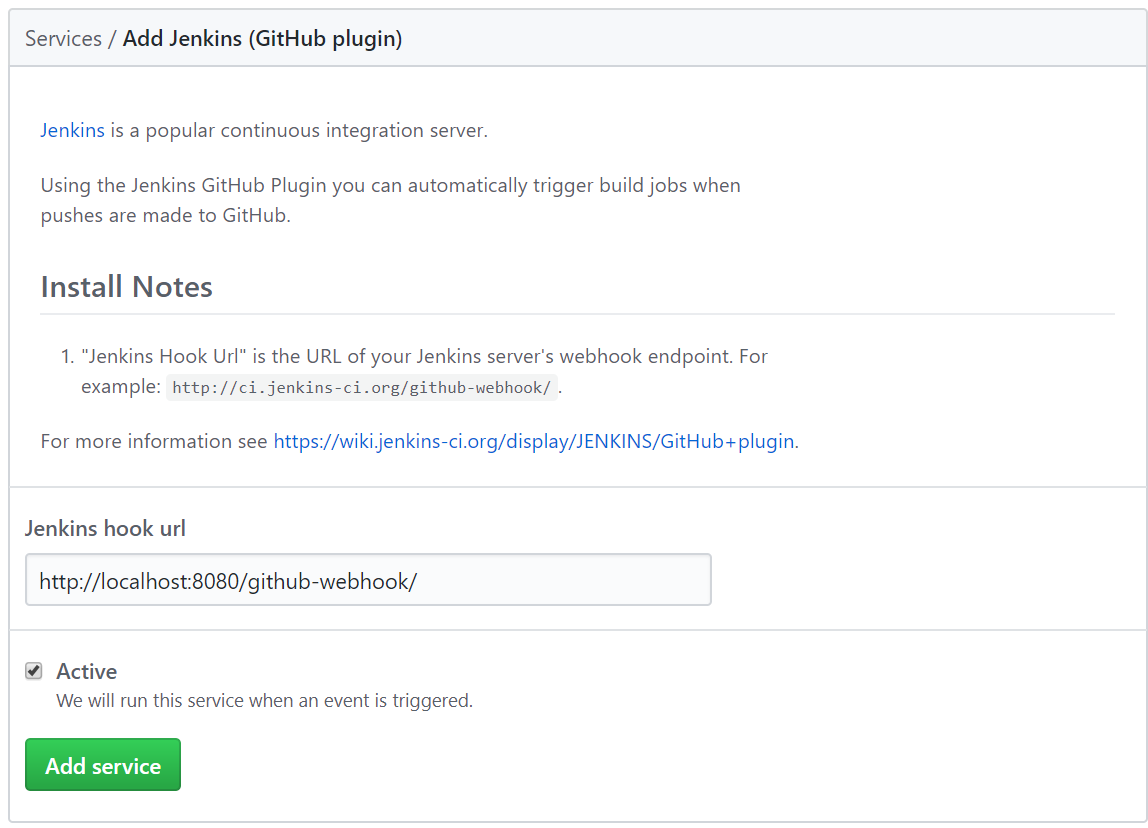
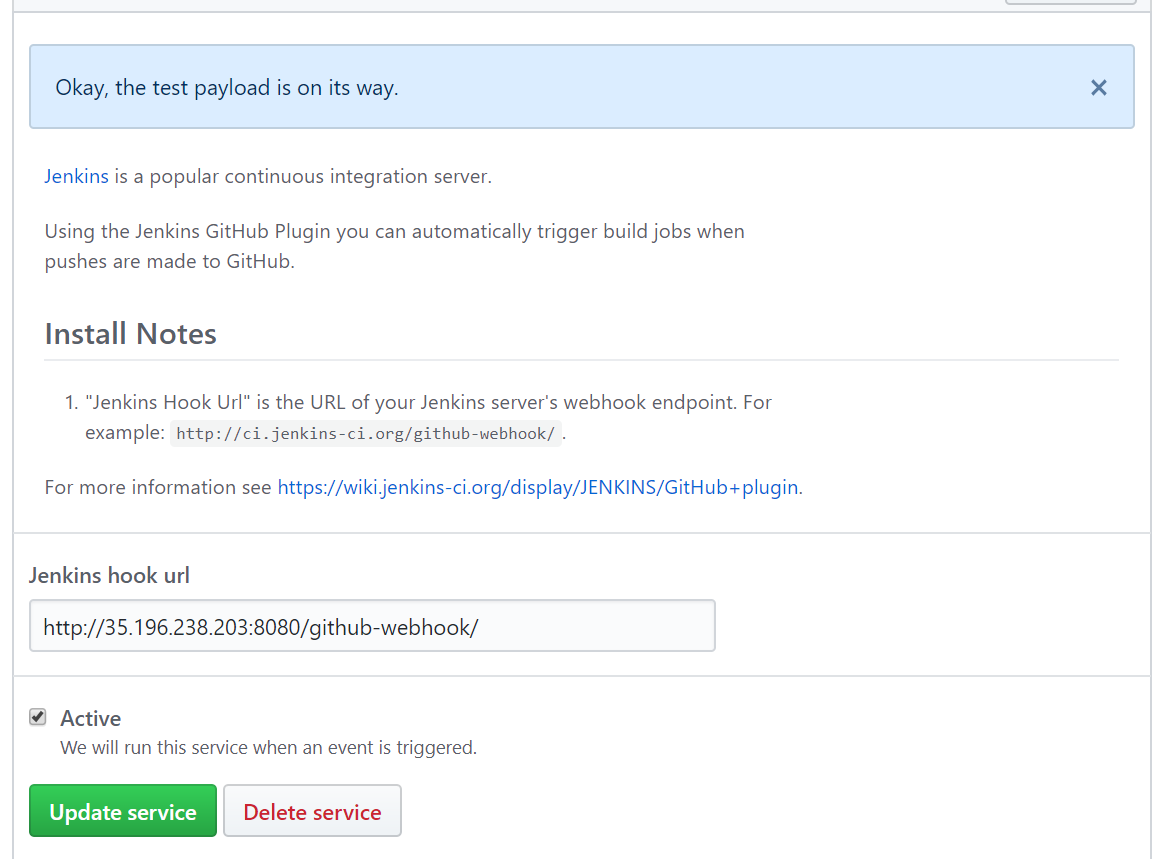
test1

Changed region(s): [[0.0, 0.0, 1.0, 0.9964], [0.6098, 0.6944, 0.6402, 0.7246]]

diff --git a/tutorial/testBuild.py b/tutorial/testBuild.py
@@ -1,0 +1,1 @@
+print "the build is done, i can execute python stuff"

diff --git a/tutorial/jenkins_mondadori.md b/tutorial/jenkins_mondadori.md
@@ -12,13 +12,20 @@
 
 # Deploy di Jenkins 2.91 per Mondadori
 
+-----------
+**Attenzione** Se ti trovi dietro a un proxy e installi Jenkins su una VM in localhost, nessun servizio Git* sarà in grado di connettersi ad esso.
+
+Se non ti trovi dietro un proxy ti basta sostituire "localhost" con il tuo **IP pubblico** nei vari webhook.
+
+-------- 
+
 ## Installazione VM
 
 * Download di Centos v6.7 da http://archive.kernel.org/centos-vault/6.7/isos/x86_64/
 
 ---
 
-## Creazione macchina virtuale si Virtual Box:
+## Creazione macchina virtuale su GCP o simile:
 * Centos v6.7
 * 8 GB RAM
 * 20 GB Hdd
@@ -232,7 +239,7 @@ sudo service jenkins start
 Starting Jenkins                                           [  OK  ]
 
 ```
-E collegati alla pagina `http://localhost:8080`, dovrebbe aprirsi una pagina del genere.
+E collegati alla pagina `http://35.196.238.203:8080`, dovrebbe aprirsi una pagina del genere.
 
 ![alt text][unlock_jenkins]
 
@@ -335,7 +342,7 @@ Inoltre puoi impostare una serie di comandi che vengono fatti durante la build, 
 
 ### Configurazione Webhook GitHub
 
-Un webhook è un collegamento che permette di scatenare un determinato evento tra due differenti servizi web. In questo caso, vogliamo fare in modo che, nel momento in cui viene fatto il commit di su GitHub, venga fatta una POST `http://localhost:8080/hithub-webhook`. Questa chiamata scatenerà build, test, deploy e compagnia bella.
+Un webhook è un collegamento che permette di scatenare un determinato evento tra due differenti servizi web. In questo caso, vogliamo fare in modo che, nel momento in cui viene fatto il commit di su GitHub, venga fatta una POST `http://35.196.238.203:8080/hithub-webhook`. Questa chiamata scatenerà build, test, deploy e compagnia bella.
 
 La configurazioni deve essere fatta lato GitHub, al momento è implementata come un servizio, non come un webhook, andiamo quindi nella pagina **Integration & Services**
 
